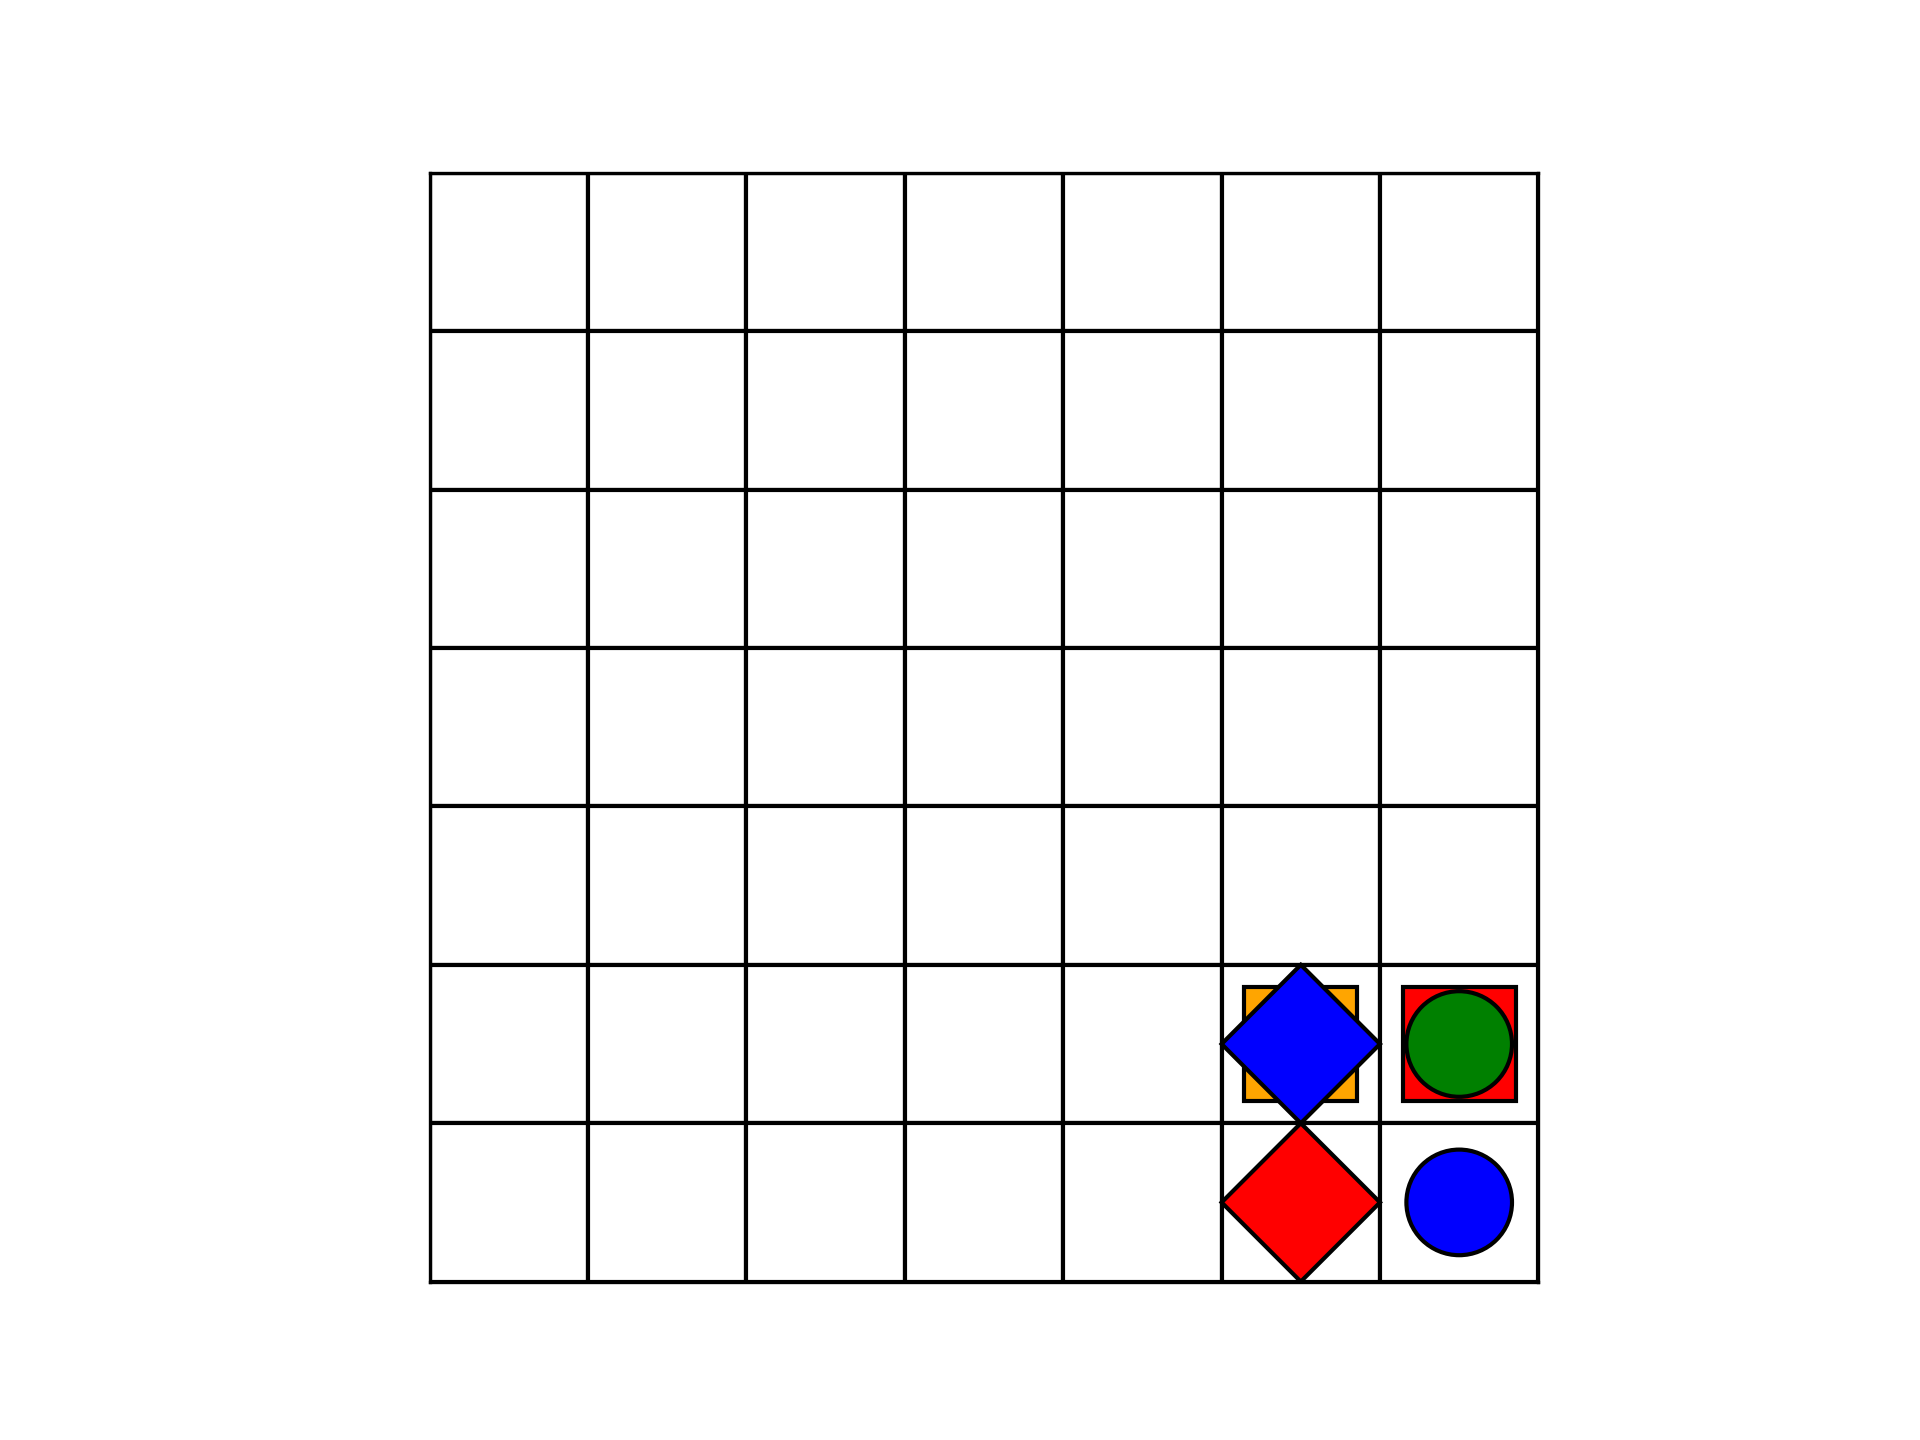
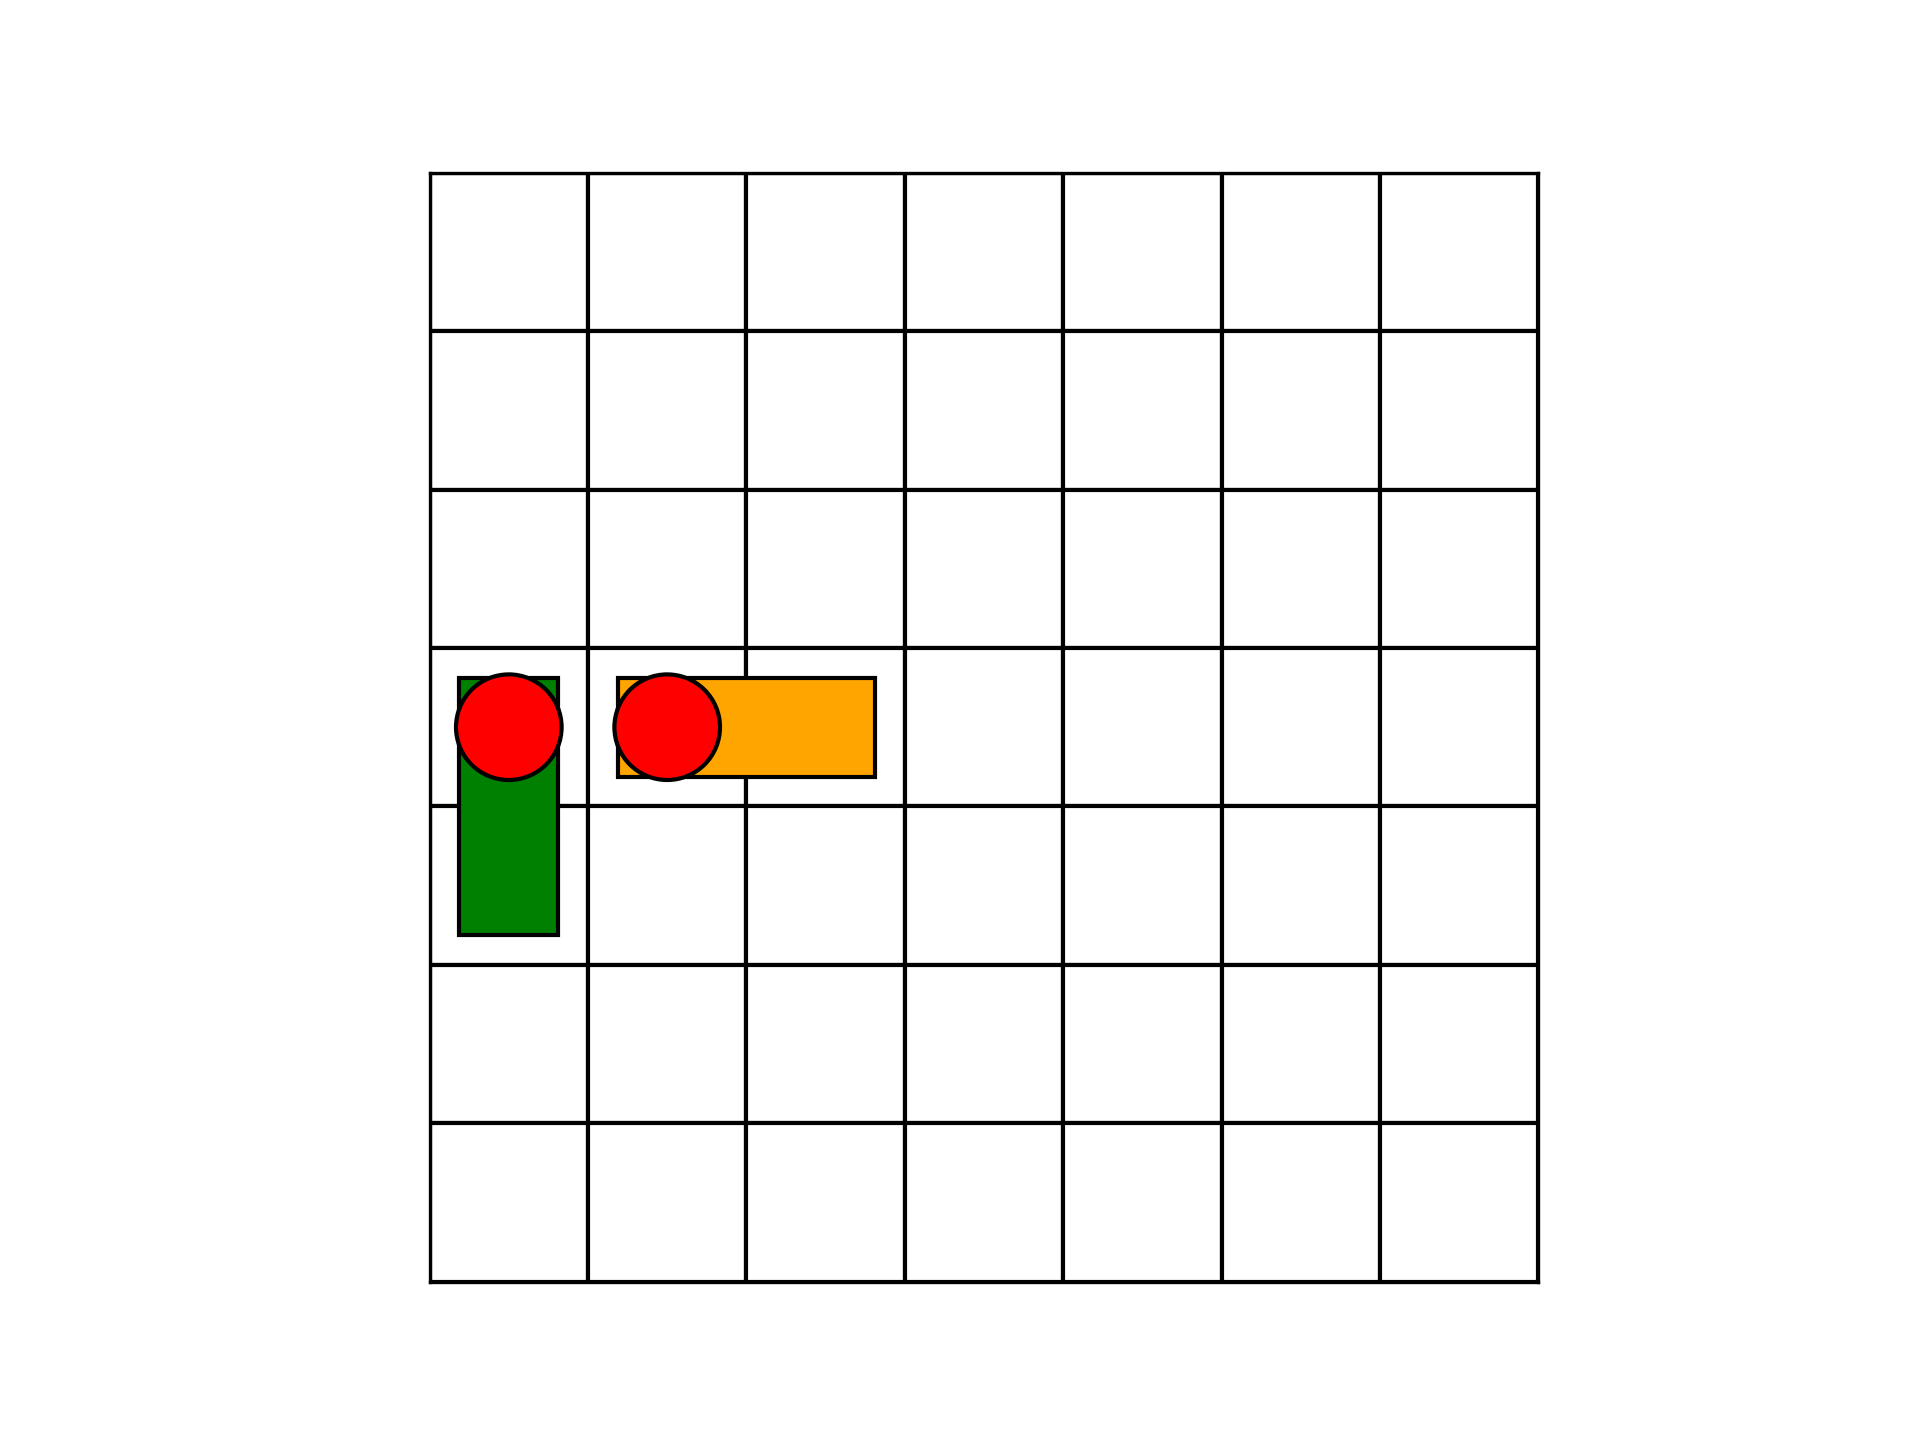
added restart and integrated the openchat backend

Changed region(s): [[0.625, 0.6562, 0.8125, 0.9062], [0.2188, 0.4688, 0.4688, 0.6562]]

diff --git a/ccbtsdemo/getllmresponse.py b/ccbtsdemo/getllmresponse.py
@@ -2,6 +2,7 @@ import requests
 import json
 from openai import OpenAI
 import os
+import httpx
 
 from pathlib import Path
 
@@ -30,15 +31,20 @@ class PromptLLM:
         self.openai_models = self.promptconfig["openai_models"]
         #self.hf_headers = {"Authorization": f"Bearer {hf_api_token}"}
         self.hf_headers = {"Authorization": f"Bearer {hf_api_token}", "Content-Type": "application/json"}
+        self.openai_client = OpenAI(api_key=openai_api_key, organization=openai_organization)
+        self.genericapi_client = OpenAI(base_url=generic_api_url, api_key=generic_api_key, http_client=httpx.Client(verify=False))
+
 
     def _set_api_keys(self):
-        global openai_api_key, openai_organization, hf_api_token
+        global openai_api_key, openai_organization, hf_api_token, generic_api_key, generic_api_url
         #with open("/home/admin/Desktop/codebase/slurk_latest_repo/slurk-bots/ccbts/key.json", "r") as f:
         with open(f"{RELATED_FILE_PATH}/key.json", "r") as f:
             self.keys = json.load(f)
             openai_api_key = self.keys["openai"]["api_key"]
             openai_organization = self.keys["openai"]["organization"]
-            hf_api_token = self.keys["huggingface"]["api_token"]
+            hf_api_token = self.keys["huggingface"]["api_key"]
+            generic_api_key = self.keys["generic_openai_compatible"]["api_key"]
+            generic_api_url = self.keys["generic_openai_compatible"]["base_url"]
 
     def get_prompt(self, test_data, prompt=[], response=None):
         #with open("/home/admin/Desktop/codebase/slurk_latest_repo/slurk-bots/ccbts/prompt_template_atomic_instruction.txt", "r") as f:
@@ -60,13 +66,14 @@ class PromptLLM:
         if model in self.openai_models:
             return self.call_openai(model, prompt)
         else:
-            return self.call_hfapi(model, prompt)
+            #return self.call_hfapi(model, prompt)
+            return self.call_genericapi(model, prompt)
 
     def call_openai(self, model, prompt):
-        client = OpenAI(api_key=openai_api_key, organization=openai_organization)
+        #client = OpenAI(api_key=openai_api_key, organization=openai_organization)
 
         if model in self.chat_models:
-            api_response = client.chat.completions.create(
+            api_response = self.openai_client.chat.completions.create(
                 model=model,
                 messages=prompt,
                 temperature=self.temperature,
@@ -84,7 +91,7 @@ class PromptLLM:
         else:
             prompt = "\n".join([message["content"] for message in prompt])
 
-            api_response = client.completions.create(
+            api_response = self.openai_client.completions.create(
                 model=model,
                 prompt=prompt,
                 temperature=self.temperature,
@@ -94,13 +101,14 @@ class PromptLLM:
             response = api_response.choices[0].text.strip()
 
         return response
-
-    def call_hfapi(self, model, messages):
+    
+    def _prepare_data_open_models(self, model, messages):
         model_types = {
             "llama__models": [
                 "codellama/CodeLlama-34b-Instruct-hf",
                 "codellama/CodeLlama-70b-Instruct-hf",
                 "mistralai/Mistral-7B-Instruct-v0.1",
+                "codellama-34b-instruct"
             ],
             "nonllama_models": [
                 "tiiuae/falcon-7b-instruct",
@@ -128,15 +136,29 @@ class PromptLLM:
                 )
             elif model in model_types["nonllama_models"]:
                 prompt_text = "\n".join([m["content"] for m in messages])
+            else:
+                prompt_text = messages
         else:
             prompt_text = messages
 
         self.temperature = self.temperature or 0.01
-        model_parameters = {
-            "temperature": self.temperature,
-            "max_new_tokens": self.max_new_tokens,
-            "num_return_sequences": 1,
-        }
+        if "hf" in model or model in model_types["nonllama_models"]:
+            model_parameters = {
+                "temperature": self.temperature,
+                "max_new_tokens": self.max_new_tokens,
+                "num_return_sequences": 1,
+            }
+        else:
+            model_parameters = {
+                "temperature": self.temperature,
+                "max_tokens": self.max_new_tokens
+            }
+
+        return prompt_text, model_parameters
+
+    def call_hfapi(self, model, messages):
+
+        prompt_text, model_parameters = self._prepare_data_open_models(model, messages)
 
         if not self.promptconfig["use_hf_api_local"]:
             model_url = f"{API_URL}{model}"
@@ -165,6 +187,26 @@ class PromptLLM:
         else:
             return self.prompthflocal.generate(model, model_parameters, prompt_text)
 
+    def call_genericapi(self, model, messages):
+
+        if model.startswith('fsc-') or model.startswith('lcp-'):
+            model = model[4:] 
+
+        prompt_text, model_parameters = self._prepare_data_open_models(model, messages)
+
+        api_response = self.genericapi_client.chat.completions.create(model=model, messages=prompt_text,
+                                                         **model_parameters)
+
+        response = api_response.choices[0].message
+        if response.role != "assistant":  # safety check
+            raise AttributeError(
+                "Response message role is "
+                + response.role
+                + " but should be 'assistant'"
+            )
+        response = response.content.strip()
+
+        return response
 
 if __name__ == "__main__":
     promptllm = PromptLLM()

diff --git a/ccbtsdemo/__main__.py b/ccbtsdemo/__main__.py
@@ -7,7 +7,7 @@ import requests
 from templates import TaskBot
 
 from .getllmresponse import PromptLLM
-from .preparedata import get_target_image, get_empty_world_state
+from .preparedata import Dataloader
 from .execresponse import execute_response
 from .base64encode import encode_image_to_base64
 
@@ -48,6 +48,7 @@ class CCBTSDemoBot(TaskBot):
         self.model_response = {}
         self.rows = 8
         self.cols = 8
+        self.dataloader = Dataloader()
 
     def on_task_room_creation(self, data):
         logging.debug(f"Task room created, data = {data}")
@@ -186,7 +187,7 @@ class CCBTSDemoBot(TaskBot):
     def load_target_image(self, room_id, user_id):
         """Load the target image."""
         logging.debug(f"Inside load_target_image, room_id = {room_id}, user_id = {user_id}")
-        base64_string = get_target_image()
+        base64_string = self.dataloader.get_target_image()
         self.sio.emit(
             "message_command",
             {
@@ -200,7 +201,7 @@ class CCBTSDemoBot(TaskBot):
         logging.debug(f"Inside setworldstate, room_id = {room_id}, user_id = {user_id}")
         #save_filename = resetboardstate(self.rows, self.cols)
         #base64_string = encode_image_to_base64(save_filename)#get_empty_world_state()
-        base64_string = get_empty_world_state()
+        base64_string = self.dataloader.get_empty_world_state()
 
         self.sio.emit(
             "message_command",
@@ -210,10 +211,8 @@ class CCBTSDemoBot(TaskBot):
                 "receiver_id": user_id,
             },
         )
-
-    def reset(self, room_id, user_id):
-        """Reset the board and the state of the bot."""
-        logging.debug(f"Received reset for the room {room_id}, user {user_id}")
+    
+    def _cleanup(self, room_id, user_id):
         self.n_turns = 0
         self.instructions = {}
         self.model_response = {}
@@ -223,13 +222,27 @@ class CCBTSDemoBot(TaskBot):
             timer.reset()
 
         self.setworldstate(room_id, user_id)
+
+
+    def handlereset(self, room_id, user_id, command="reset"):
+        """Handle reset command."""
+        logging.debug(f"Received {command} for the room {room_id}, user {user_id}")
+
+        self._cleanup(room_id, user_id)
+
+        if command in ["clear", "reset"]:
+            message = "Resets the world state"
+        elif command == "restart":
+            message = "Resets the target board"
+            self.load_target_image(room_id, user_id)
+
         self.sio.emit(
             "text",
             {
                 "room": room_id,
                 # "message": message
                 "message": COLOR_MESSAGE.format(
-                    color=STANDARD_COLOR, message="Resets the world state"
+                    color=STANDARD_COLOR, message=message
                 ),
                 "html": True,
             },
@@ -262,9 +275,10 @@ class CCBTSDemoBot(TaskBot):
             pllm = PromptLLM()
             pllm.get_prompt(message, prompt)
             logging.debug(f"Prompt: {prompt}")
-            generated_response = pllm.generate(
-                "codellama/CodeLlama-34b-Instruct-hf", prompt
-            )
+            #model_to_test = "codellama/CodeLlama-34b-Instruct-hf"
+            model_to_test = "fsc-codellama-34b-instruct"#"fsc-openchat-3.5-0106"
+
+            generated_response = pllm.generate(model_to_test, prompt)
             logging.debug(f"Generated Response: {generated_response}")
             self.model_response[self.n_turns + 1] = generated_response
             logging.debug(
@@ -347,10 +361,10 @@ class CCBTSDemoBot(TaskBot):
             # commands from the user
             if data["command"] in ["clear", "reset"]:
                 # clear the board, resets state and other variables
-                self.reset(room_id, user_id)
-            elif data["command"] == "reset":
+                self.handlereset(room_id, user_id, "reset")
+            elif data["command"] == "restart":
                 # re-fetch the target board
-                pass
+                self.handlereset(room_id, user_id, "restart")
             else:
                 logging.debug(f"Unknown command: {data['command']}")
                 self.sio.emit(

diff --git a/ccbtsdemo/preparedata.py b/ccbtsdemo/preparedata.py
@@ -12,32 +12,47 @@ RELATED_FOLDER_PATH = Path(
 )
 
 
-def load_images():
-    logging.debug(f"Loading images from {RELATED_FOLDER_PATH}")
-    images = {}
-    for image in RELATED_FOLDER_PATH.iterdir():
-        if image.is_file():
-            images[image.stem] = encode_image_to_base64(image)
+class Dataloader:
+    def __init__(self):
+        self.images = self.load_images()
+        self.used_images = []
 
-    logging.debug(f"Loaded images: {len(images)}")
-    return images
+    def load_images(self):
+        logging.debug(f"Loading images from {RELATED_FOLDER_PATH}")
+        images = {}
+        for image in RELATED_FOLDER_PATH.iterdir():
+            if image.is_file():
+                images[image.stem] = encode_image_to_base64(image)
 
-def get_target_image():
-    images = load_images()
-    random_image = random.choice(list(images.keys()))
-    logging.debug(f"Random image file: {random_image}")
-    return images[random_image]
+        logging.debug(f"Loaded images: {len(images)}")
+        return images
 
-def get_empty_world_state():
-    logging.debug(f"Loading empty world state from {ROOT}/data/base_images/empty_world_state.png")
-    return encode_image_to_base64(Path(f"{ROOT}/data/base_images/empty_world_state.png"))
+    def get_target_image(self):
 
-def get_legend_image():
-    logging.debug(f"Loading legend image from {ROOT}/data/base_images/legend_description.png")
-    return encode_image_to_base64(Path(f"{ROOT}/data/base_images/legend_description.png"))
+        #Reset used images if all images have been used
+        if len(self.used_images) == len(self.images):
+            logging.debug("All images have been used, resetting used images list.")
+            self.used_images = []
+
+        random_image = None
+        #To ensure we dont get the same image again
+        while random_image not in self.used_images:
+            random_image = random.choice(list(self.images.keys()))
+            logging.debug(f"Random image file: {random_image}")
+            self.used_images.append(random_image)
+            return self.images[random_image]
+
+    def get_empty_world_state(self):
+        logging.debug(f"Loading empty world state from {ROOT}/data/base_images/empty_world_state.png")
+        return encode_image_to_base64(Path(f"{ROOT}/data/base_images/empty_world_state.png"))
+
+    def get_legend_image(self):
+        logging.debug(f"Loading legend image from {ROOT}/data/base_images/legend_description.png")
+        return encode_image_to_base64(Path(f"{ROOT}/data/base_images/legend_description.png"))
 
 
 if __name__ == "__main__":
-    print(get_target_image())
+    dl = Dataloader()
+    print(dl.get_target_image())
 
 
